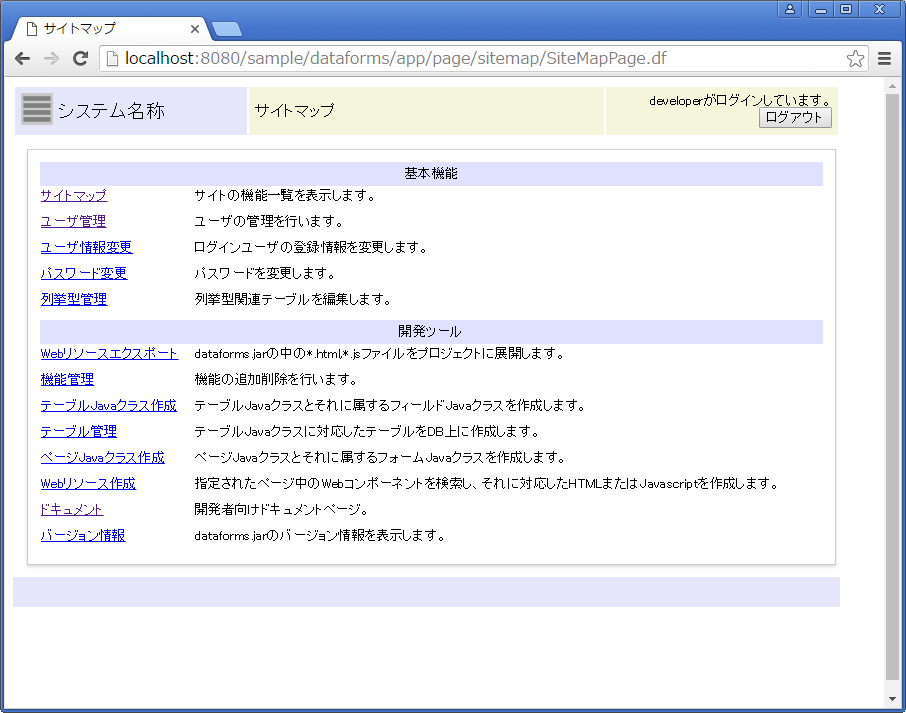
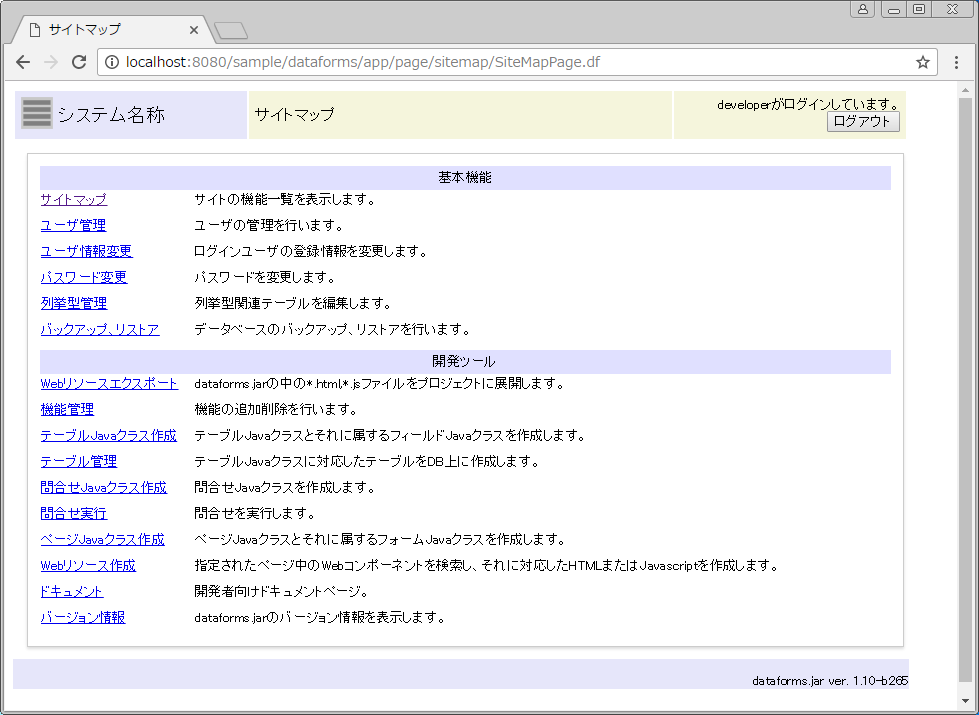
ドキュメントの修正。

diff --git a/HTML/META-INF/resources/doc/tutorial2/index.html b/HTML/META-INF/resources/doc/tutorial2/index.html
@@ -19,15 +19,17 @@
 		</p>
 		<p class="topic">
 			開発ツール自体も、dataforms.jarで作成されたWebアプリケーションです。
-			つまり開発ツールに実装されているユーザインターフェースは、dataforms.jarで標準的にサポートされていると考えて問題ありません。
+			つまり開発ツールに実装されているユーザインターフェースは、dataforms.jarで標準的にサポートされています。
 		</p>
 		<p>
 			開発ツールを使うには、「データベースの初期設定」の際に登録した開発者ユーザでログインする必要があります。
 			ユーザのユーザレベルには「開発者」、「管理者」、「ユーザ」等の権限があり、開発ツールを使用できるのは、「開発者」権限を持つユーザのみです。
-			<figure>
-				<figcaption>開発者権限を持つユーザのサイトマップ</figcaption>
-				<img src="sitemap.png" style="width:50%; height:50%;"/>
-			</figure>
+		</p>
+		<figure>
+			<figcaption>開発者権限を持つユーザのサイトマップ</figcaption>
+			<img src="sitemap.png" style="width:50%; height:50%;"/>
+		</figure>
+		<p>
 			「開発者」は「管理者」の上位にあたり、「管理者」用の「ユーザ管理」機能を使い、「管理者」や通常の「ユーザ」レベルのユーザを登録することが可能です。
 			開発が終了すると、「管理者」権限をもつユーザを登録し、そのユーザで運用管理を行います。
 			開発ツールには、データベースを操作したり、サーバ上のJavascriptやHTMLを書き換えてしまう機能が存在します。
@@ -69,6 +71,22 @@
 					</th>
 					<td>
 						テーブルJavaクラスに対応したテーブルをDB上に作成します。
+					</td>
+				</tr>
+				<tr>
+					<th>
+						問合せJavaクラス作成
+					</th>
+					<td>
+						問合せクラスのJavaソースを作成します。
+					</td>
+				</tr>
+				<tr>
+					<th>
+						問合せJava実行
+					</th>
+					<td>
+						問合せクラスまたはSQLのselect文を実行します。
 					</td>
 				</tr>
 				<tr>
